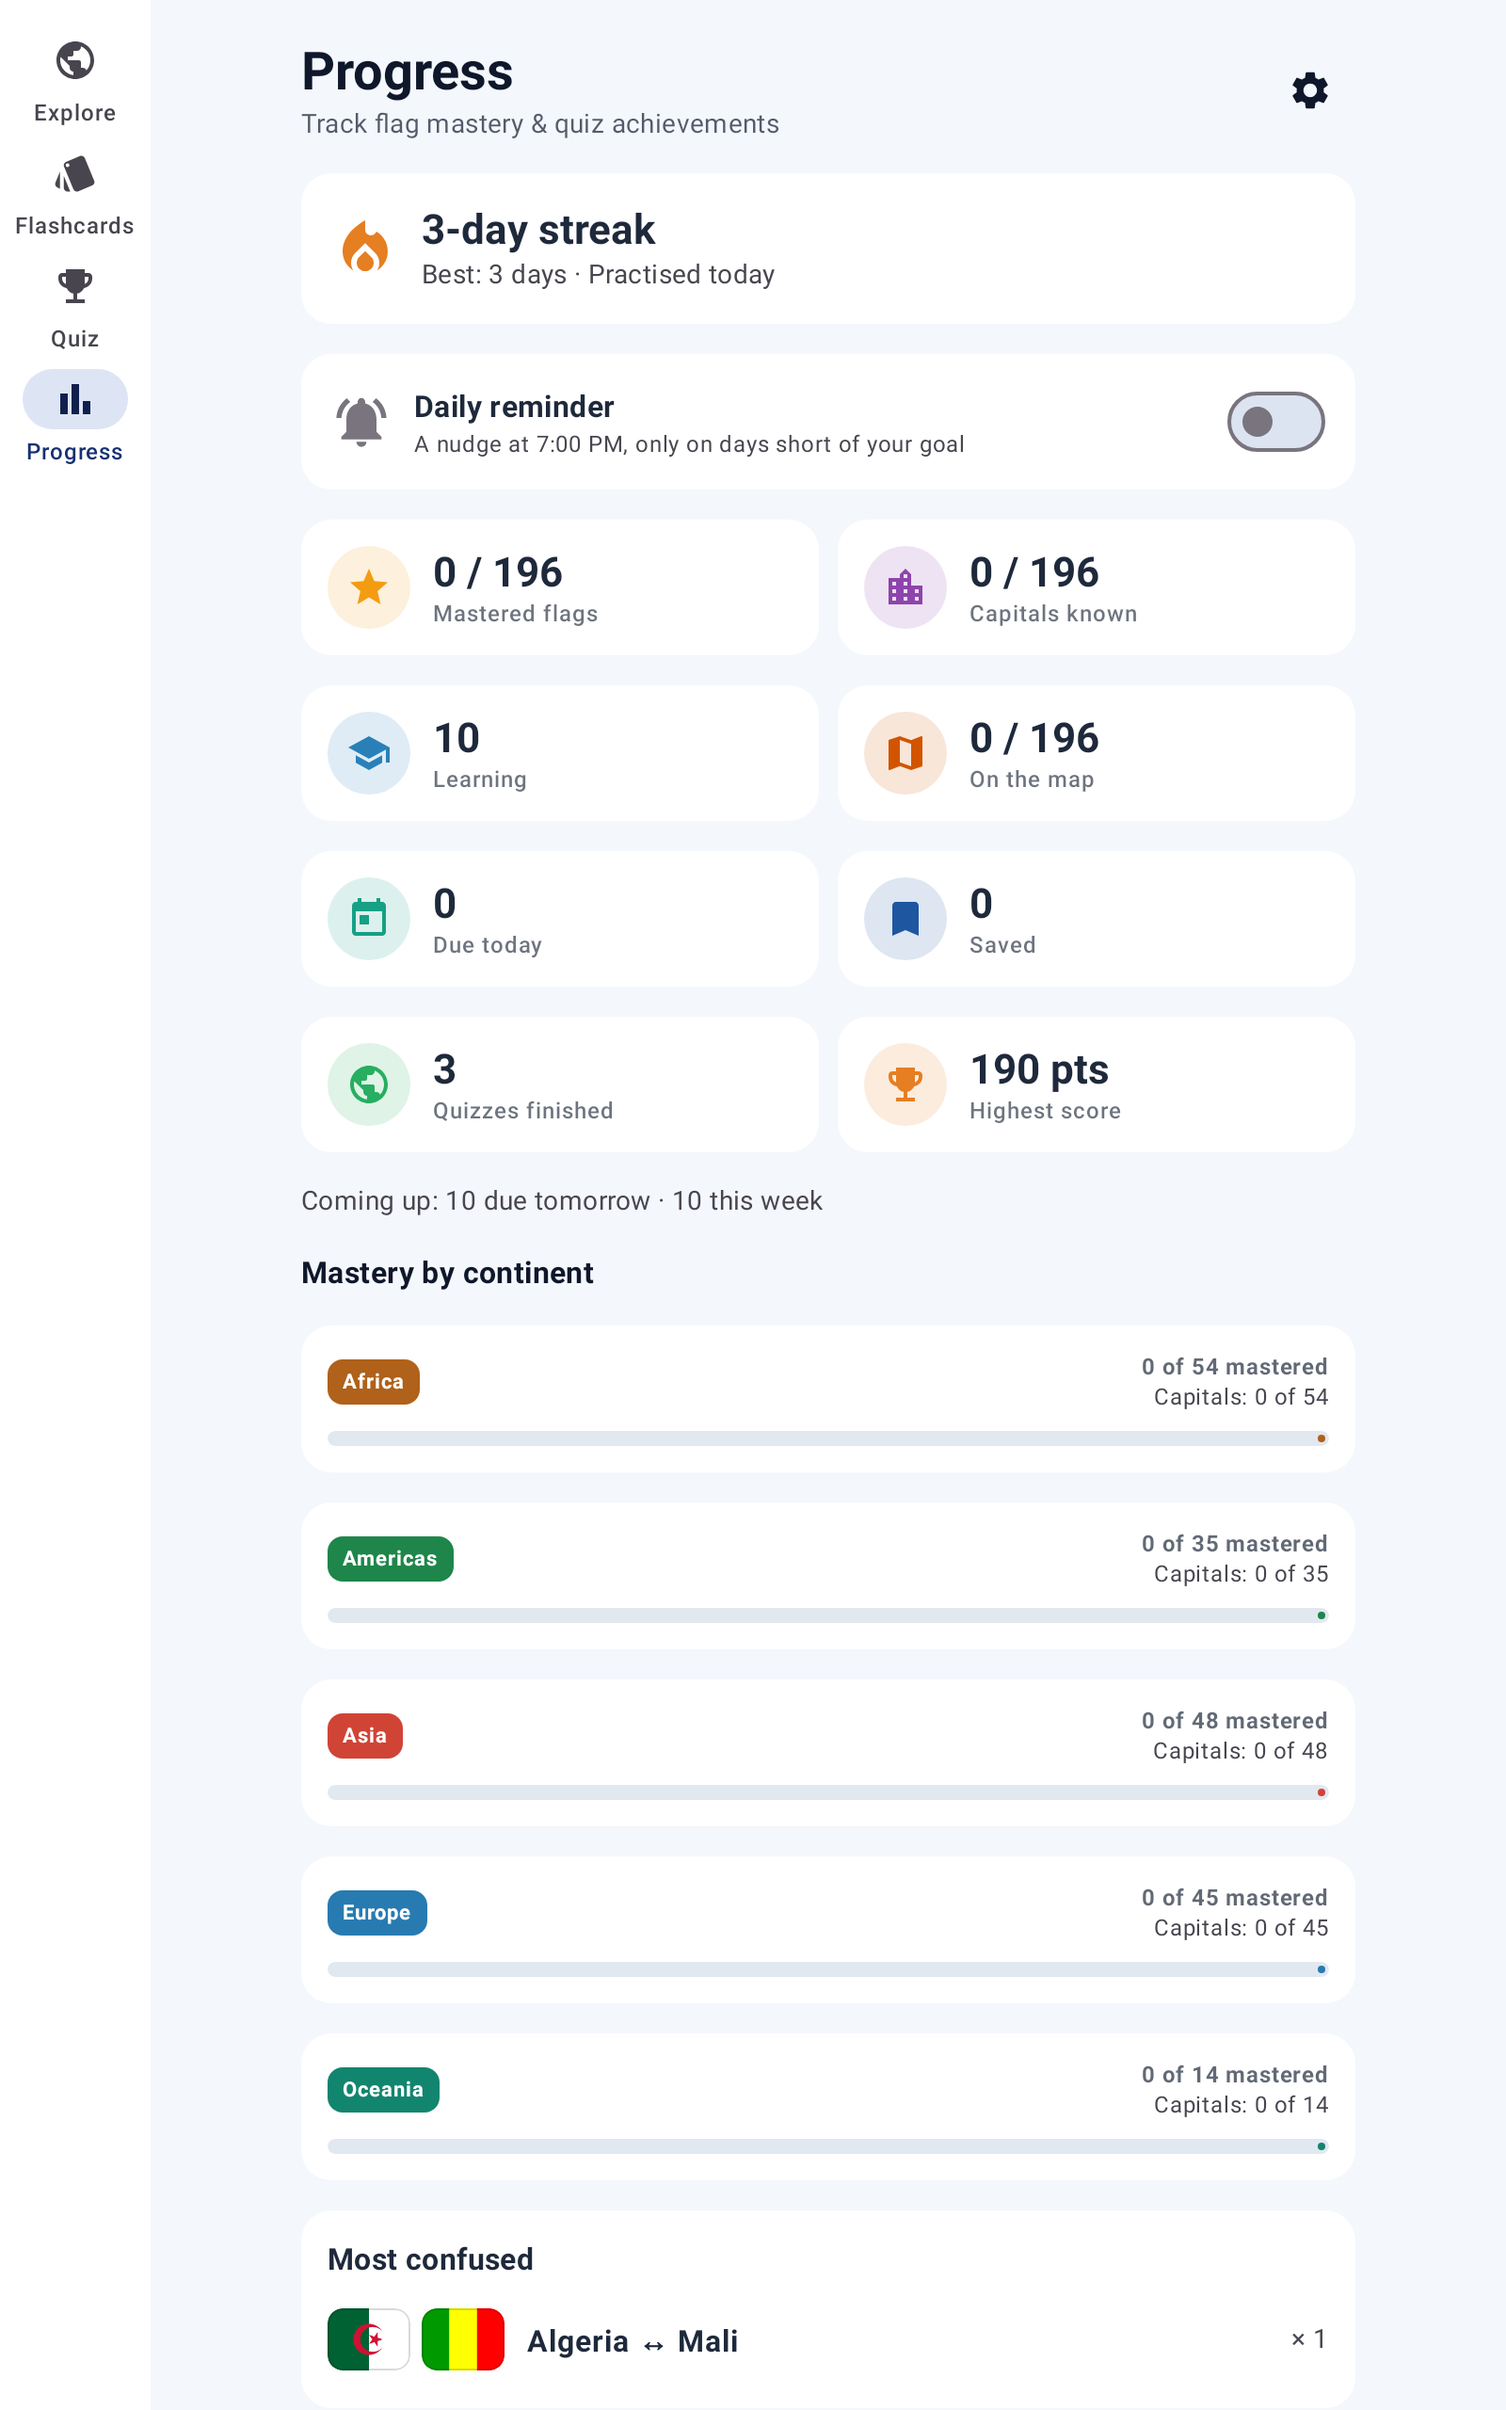
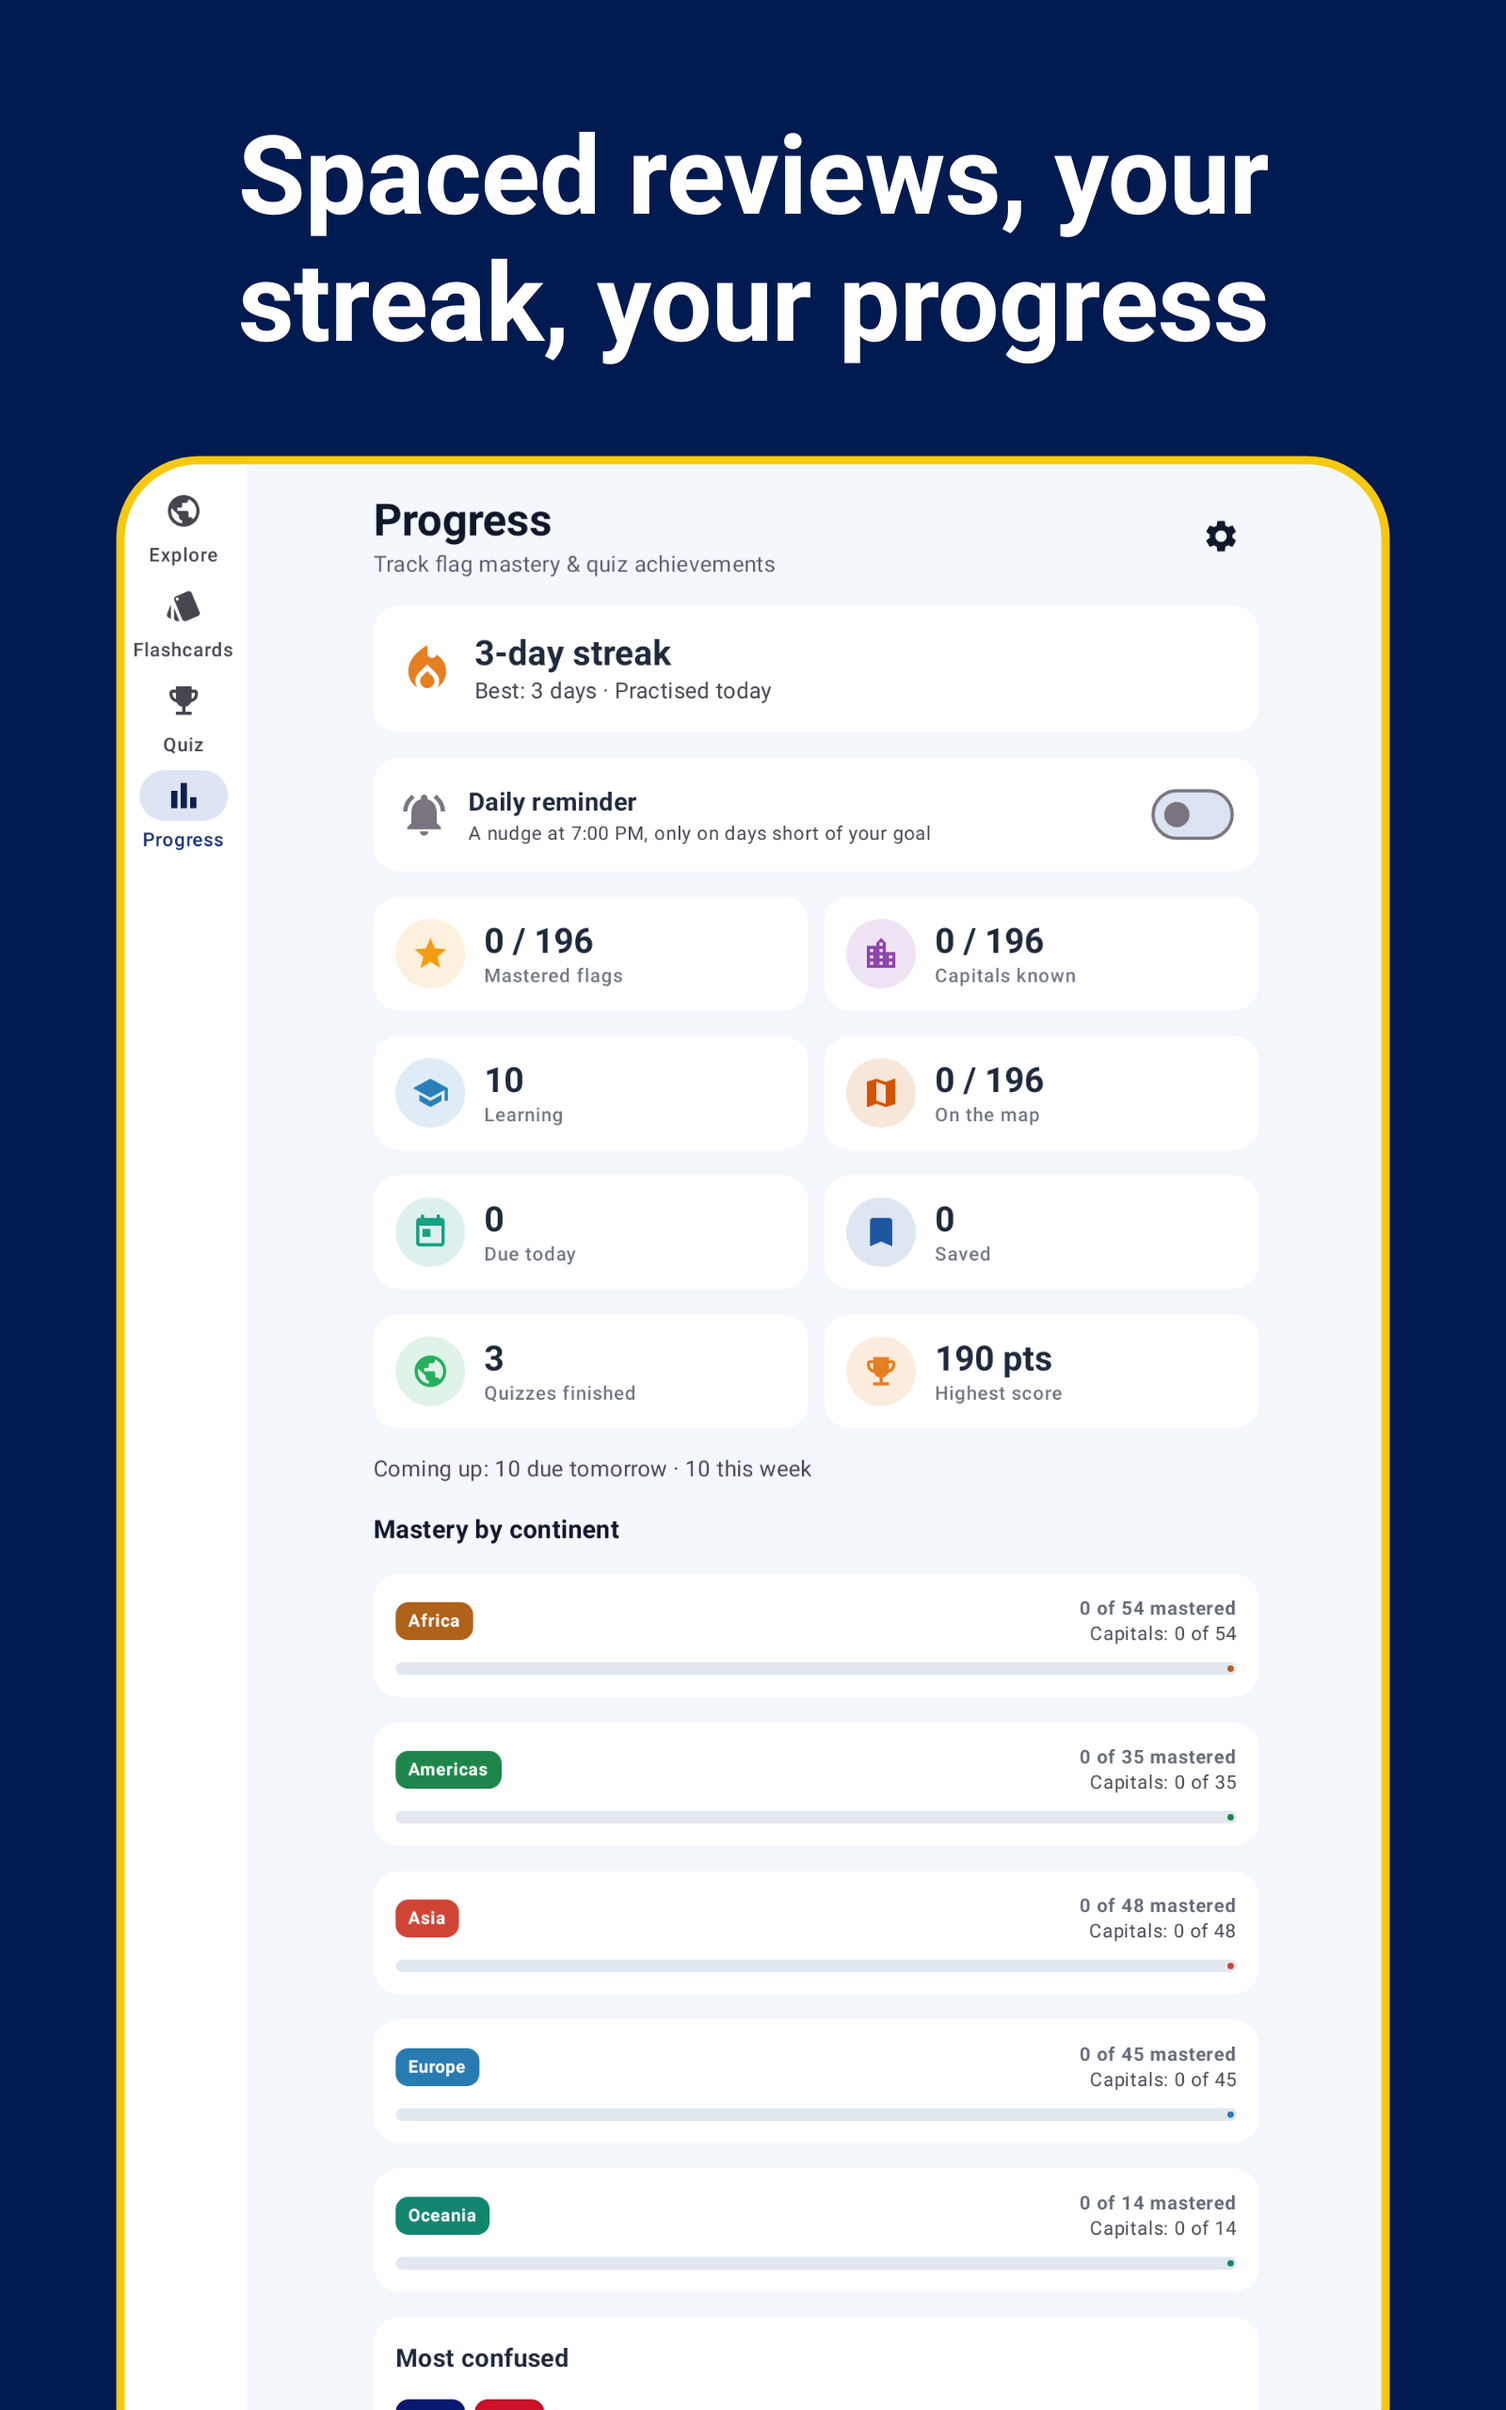
Captioned store screenshots led by the quiz; listing title names flags, capitals and maps
Claude-Session: https://claude.ai/code/session_01FsSjTKJ7VsyPwGGheMQEqx

diff --git a/app/src/test/java/com/example/ScreenshotsTest.kt b/app/src/test/java/com/example/ScreenshotsTest.kt
@@ -31,6 +31,7 @@ import com.example.support.awaitWeakSpotsWhere
 import com.example.support.drawLatestDialogOverWindow
 import com.example.support.drawWindow
 import com.example.support.writePng
+import com.example.support.captioned
 import com.example.support.openTab
 import java.io.File
 import java.util.Locale
@@ -83,10 +84,10 @@ class ScreenshotsTest {
      * over the screen beneath it ([drawLatestDialogOverWindow]), so its scrim and the corners beside it are opaque.
      * Play refuses a screenshot whose long side is more than twice its short one, so such a window fails the test.
      */
-    private fun saveStore(name: String, bitmap: Bitmap = rule.drawWindow()) {
+    private fun saveStore(name: String, caption: String, bitmap: Bitmap = rule.drawWindow()) {
         val (short, long) = listOf(bitmap.width, bitmap.height).sorted()
         check(long <= 2 * short) { "$name is ${bitmap.width}x${bitmap.height}, longer than 2:1" }
-        bitmap.writePng(File("build/screenshots/store", "$name.png"), alpha = false)
+        bitmap.captioned(caption).writePng(File("build/screenshots/store", "$name.png"), alpha = false)
     }
 
     /**
@@ -118,27 +119,33 @@ class ScreenshotsTest {
     }
 
     /** Progress with the seeded run on it, drawn once the streak card shows it. */
-    private fun saveProgress(name: String, viewModel: CountryViewModel) {
+    private fun saveProgress(name: String, caption: String, viewModel: CountryViewModel) {
         rule.openTab("stats")
         rule.awaitDelivered { viewModel.streak.value.current == 3 }
         rule.onNodeWithText("3-day streak").assertIsDisplayed()
-        saveStore(name)
+        saveStore(name, caption)
     }
 
     /**
      * The phone screenshots for the store listing, at 1080x2160: Play refuses a screenshot whose long side is more than
      * twice its short one, as the class default's 1080x2400 is. Numbered in the order they are shown on the store page:
-     * Explore, a Learn card, the map quiz, a wrong answer with the two flags and the map, the back of a flashcard,
-     * Progress, a country sheet scrolled to its map.
+     * the flag quiz, the map quiz, a wrong answer with the two flags and the map, a Learn card, the back of a
+     * flashcard, Progress, a country sheet scrolled to its map; each with a caption above it. The quiz leads.
      */
     @Test
     @Config(qualifiers = "w360dp-h720dp-xxhdpi")
     fun storePhone() {
         ShadowTextToSpeech.addLanguageAvailability(Locale.US)
         rule.waitForIdle()
-        saveStore("01_explore")
 
         val viewModel = ViewModelProvider(rule.activity)[CountryViewModel::class.java]
+        rule.openTab("quiz")
+        viewModel.startQuiz(QuizMode.FLAG_NAME, "Europe")
+        rule.waitForIdle()
+        saveStore("01_quiz_flag", "Name the flag. Beat your streak.")
+        viewModel.endQuiz()
+        rule.waitForIdle()
+
         rule.openTab("flashcards")
         rule.onNodeWithTag("flashcard_study_btn").performClick()
         rule.waitForIdle()
@@ -147,7 +154,7 @@ class ScreenshotsTest {
         rule.onNodeWithTag("learn_card").assertIsDisplayed()
         rule.awaitDelivered { WorldMapData.peek() != null }
         rule.waitForIdle()
-        saveStore("02_learn_card")
+        saveStore("04_learn_card", "Learn five new flags at a time")
         rule.onNodeWithTag("learn_back_btn").performClick()
         rule.waitForIdle()
 
@@ -156,7 +163,7 @@ class ScreenshotsTest {
         rule.waitForIdle()
         rule.awaitDelivered { WorldMapData.peek() != null }
         rule.waitForIdle()
-        saveStore("03_quiz_locate")
+        saveStore("02_quiz_locate", "Find every country on the map")
         viewModel.endQuiz()
         rule.waitForIdle()
 
@@ -166,7 +173,7 @@ class ScreenshotsTest {
         viewModel.answerQuiz((europe.correctAnswerIndex + 1) % europe.options.size)
         rule.waitForIdle()
         rule.onNodeWithTag("quiz_miss_comparison").performScrollTo()
-        saveStore("04_quiz_answered")
+        saveStore("03_quiz_answered", "Misses show what you mixed up")
         viewModel.endQuiz()
         rule.waitForIdle()
 
@@ -177,10 +184,10 @@ class ScreenshotsTest {
         ShadowTextToSpeech.getLastTextToSpeechInstance()?.let { shadowOf(it).onInitListener.onInit(TextToSpeech.SUCCESS) }
         rule.waitForIdle()
         // The top of the back, the name with its capital and population: the map has two shots of its own.
-        saveStore("05_flashcard_back")
+        saveStore("05_flashcard_back", "Capital, population and a spot-it cue")
 
         seedProgress(viewModel)
-        saveProgress("06_progress", viewModel)
+        saveProgress("06_progress", "Spaced reviews, your streak, your progress", viewModel)
 
         rule.openTab("explore")
         rule.onNodeWithTag("explore_grid").performScrollToNode(hasTestTag("country_card_fr"))
@@ -189,20 +196,26 @@ class ScreenshotsTest {
         rule.awaitDelivered { WorldMapData.peek() != null }
         rule.onNode(hasScrollAction() and hasTestTag("country_detail_sheet_fr")).performScrollToNode(hasTestTag("sheet_map"))
         rule.waitForIdle()
-        saveStore("07_sheet_map", rule.drawLatestDialogOverWindow())
+        saveStore("07_sheet_map", "196 countries, one offline map", rule.drawLatestDialogOverWindow())
         rule.onNodeWithContentDescription("Close").performClick()
         rule.waitForIdle()
     }
 
     /**
-     * Explore in the dark theme, the eighth phone screenshot: Play takes at most eight for each kind of device, so the
+     * The flag quiz in the dark theme, the eighth phone screenshot: Play takes at most eight for each kind of device, so the
      * dark theme gets one.
      */
     @Test
     @Config(qualifiers = "w360dp-h720dp-night-xxhdpi")
     fun storePhoneDark() {
         rule.waitForIdle()
-        saveStore("dark_01_explore")
+        val viewModel = ViewModelProvider(rule.activity)[CountryViewModel::class.java]
+        rule.openTab("quiz")
+        viewModel.startQuiz(QuizMode.FLAG_NAME, "Europe")
+        rule.waitForIdle()
+        saveStore("dark_01_quiz_flag", "Quiz yourself in light or dark")
+        viewModel.endQuiz()
+        rule.waitForIdle()
     }
 
     /** Two of the screenshots on a 1600x2560 tablet: the rail on the start edge, the columns at their reading width. */
@@ -210,10 +223,10 @@ class ScreenshotsTest {
     @Config(qualifiers = "w800dp-h1280dp-xhdpi")
     fun storeTablet() {
         rule.waitForIdle()
-        saveStore("tablet_01_explore")
+        saveStore("tablet_01_explore", "Every flag, capital and map to explore")
         val viewModel = ViewModelProvider(rule.activity)[CountryViewModel::class.java]
         seedProgress(viewModel)
-        saveProgress("tablet_06_progress", viewModel)
+        saveProgress("tablet_06_progress", "Spaced reviews, your streak, your progress", viewModel)
     }
 
     @Test

diff --git a/app/src/test/java/com/example/support/PixelSupport.kt b/app/src/test/java/com/example/support/PixelSupport.kt
@@ -3,6 +3,13 @@ package com.example.support
 import android.graphics.Bitmap
 import android.graphics.Canvas
 import android.graphics.Color
+import android.graphics.Paint
+import android.graphics.Path
+import android.graphics.RectF
+import android.graphics.Typeface
+import android.text.Layout
+import android.text.StaticLayout
+import android.text.TextPaint
 import android.os.Looper
 import androidx.compose.ui.geometry.Rect
 import androidx.compose.ui.test.junit4.AndroidComposeTestRule
@@ -100,4 +107,43 @@ fun Bitmap.dominantColour(left: Float, top: Float, right: Float, bottom: Float):
     }
     val best = counts.maxByOrNull { it.value }!!
     return best.key to best.value.toFloat() / total
+}
+
+/**
+ * A store picture: [caption] in white on the brand navy, the screen beneath it in a rounded frame that runs off the
+ * bottom edge, as a phone held in the hand would. The result is as big as the screen and fully opaque.
+ */
+fun Bitmap.captioned(caption: String, navy: Int = Color.rgb(1, 26, 80)): Bitmap {
+    val unit = width / 1080f
+    val out = Bitmap.createBitmap(width, height, Bitmap.Config.ARGB_8888)
+    val canvas = Canvas(out)
+    canvas.drawColor(navy)
+    val text = TextPaint(Paint.ANTI_ALIAS_FLAG).apply {
+        color = Color.WHITE
+        typeface = Typeface.create(Typeface.DEFAULT, Typeface.BOLD)
+        textSize = 78 * unit
+    }
+    val layout = StaticLayout.Builder.obtain(caption, 0, caption.length, text, (width - 120 * unit).toInt())
+        .setAlignment(Layout.Alignment.ALIGN_CENTER).setMaxLines(2).build()
+    canvas.save()
+    canvas.translate(60 * unit, 70 * unit)
+    layout.draw(canvas)
+    canvas.restore()
+    val shownWidth = width * 0.84f
+    val shownHeight = shownWidth * height / width
+    val left = (width - shownWidth) / 2
+    val top = 330 * unit
+    val frame = RectF(left, top, left + shownWidth, top + shownHeight)
+    val radius = 56 * unit
+    canvas.save()
+    canvas.clipPath(Path().apply { addRoundRect(frame, radius, radius, Path.Direction.CW) })
+    canvas.drawBitmap(this, null, frame, Paint(Paint.FILTER_BITMAP_FLAG))
+    canvas.restore()
+    val edge = Paint(Paint.ANTI_ALIAS_FLAG).apply {
+        style = Paint.Style.STROKE
+        strokeWidth = 6 * unit
+        color = Color.rgb(246, 201, 14)
+    }
+    canvas.drawRoundRect(frame, radius, radius, edge)
+    return out
 }

diff --git a/store/listing.md b/store/listing.md
@@ -1,6 +1,6 @@
 # Store listing
 
-**Title (30):** World Flags: learn every flag
+**Title (30):** World Flags, Capitals & Maps
 
 **Short description (80):** Learn every flag, capital and location with spaced reviews that stick.
 
@@ -14,7 +14,7 @@
 
 Learn the flags, capitals and locations of all 196 states and Antarctica, and keep them.
 
-World Flags does not just test you. It teaches first:
+World Flags is a quiz game that also teaches you. It teaches first:
 • **Learn 5 new**: five flags you have not seen yet, each with a one-line cue on what to look for and the flag it is most often confused with.
 • **Spot it** cues on every card, and tell-apart tips for the classic look-alikes: Chad and Romania, Monaco and Indonesia, the Nordic crosses, the Central American blues.
 • **Where it is**: a map of every country, in its sheet, on the flashcard back and after a miss.
@@ -43,6 +43,6 @@ Works offline, in light and dark, with TalkBack, on phones and tablets.
 
 **Data safety:** No data collected. No data shared. Data is encrypted in transit: not applicable (no network). Users can request data deletion: data is deleted on uninstall or with Reset progress.
 
-**Screenshots:** `store/screenshots/`: phone 1080×2160 in light (`01_explore` … `07_sheet_map`) and dark (`dark_01_explore`), eight in all, the most Play takes for one kind of device; tablet 1600×2560 (`tablet_01_explore`, `tablet_06_progress`). All are 24-bit PNGs, with no alpha channel. The `storePhone()`, `storePhoneDark()` and `storeTablet()` tests of `ScreenshotsTest` write them to `app/build/screenshots/store/`; that folder is copied into `store/screenshots/` after the tests have run.
+**Screenshots:** `store/screenshots/`: phone 1080×2160, each with a caption on navy above the screen, the quiz first: `01_quiz_flag`, `02_quiz_locate`, `03_quiz_answered`, `04_learn_card`, `05_flashcard_back`, `06_progress`, `07_sheet_map`, and `dark_01_quiz_flag` in dark, eight in all, the most Play takes for one kind of device; tablet 1600×2560 (`tablet_01_explore`, `tablet_06_progress`). All are 24-bit PNGs, with no alpha channel. The `storePhone()`, `storePhoneDark()` and `storeTablet()` tests of `ScreenshotsTest` write them to `app/build/screenshots/store/`; that folder is copied into `store/screenshots/` after the tests have run. The listing text does not name the screen the app opens on, so a new launch screen needs no text change; retake the screenshots after one lands.
 
 **Feature graphic and icon:** `store/feature-graphic.png` (1024×500, 24-bit PNG) and `store/icon-512.png` (512×512, 32-bit PNG), drawn from the icon's master art (`assets/app-icon-master.webp`, the origami map pin on navy, and the pin cut from it) by the `storeFeatureGraphic()` and `storeIcon()` tests of `StoreGraphicsTest`, which write them to `app/build/screenshots/store-graphics/`; the two files are copied into `store/`. `python3 tools/store-check.py --check` checks the screenshots, the graphic, the icon and the lengths of the texts above against Play's rules (CI runs it).
